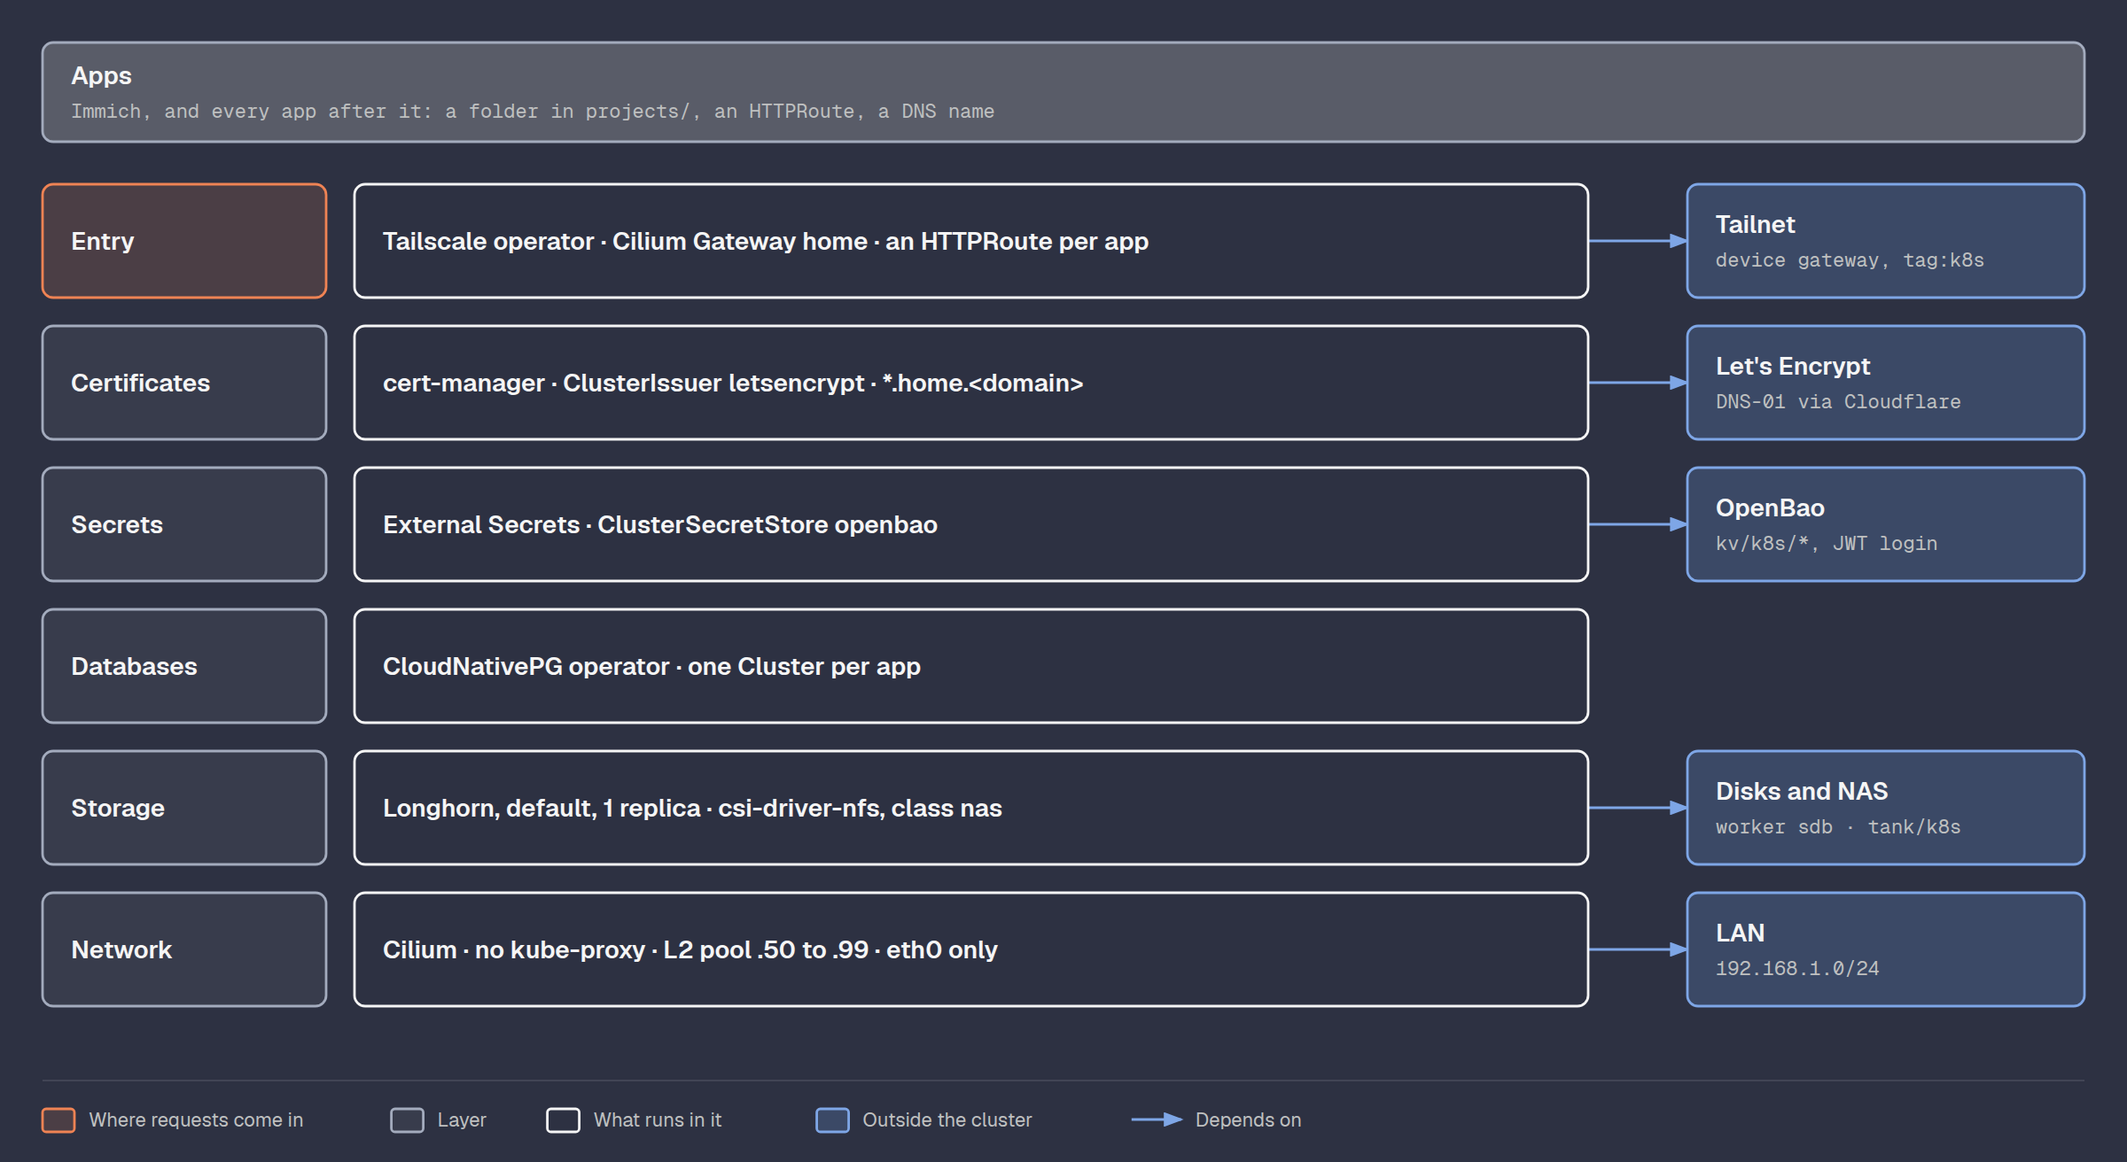
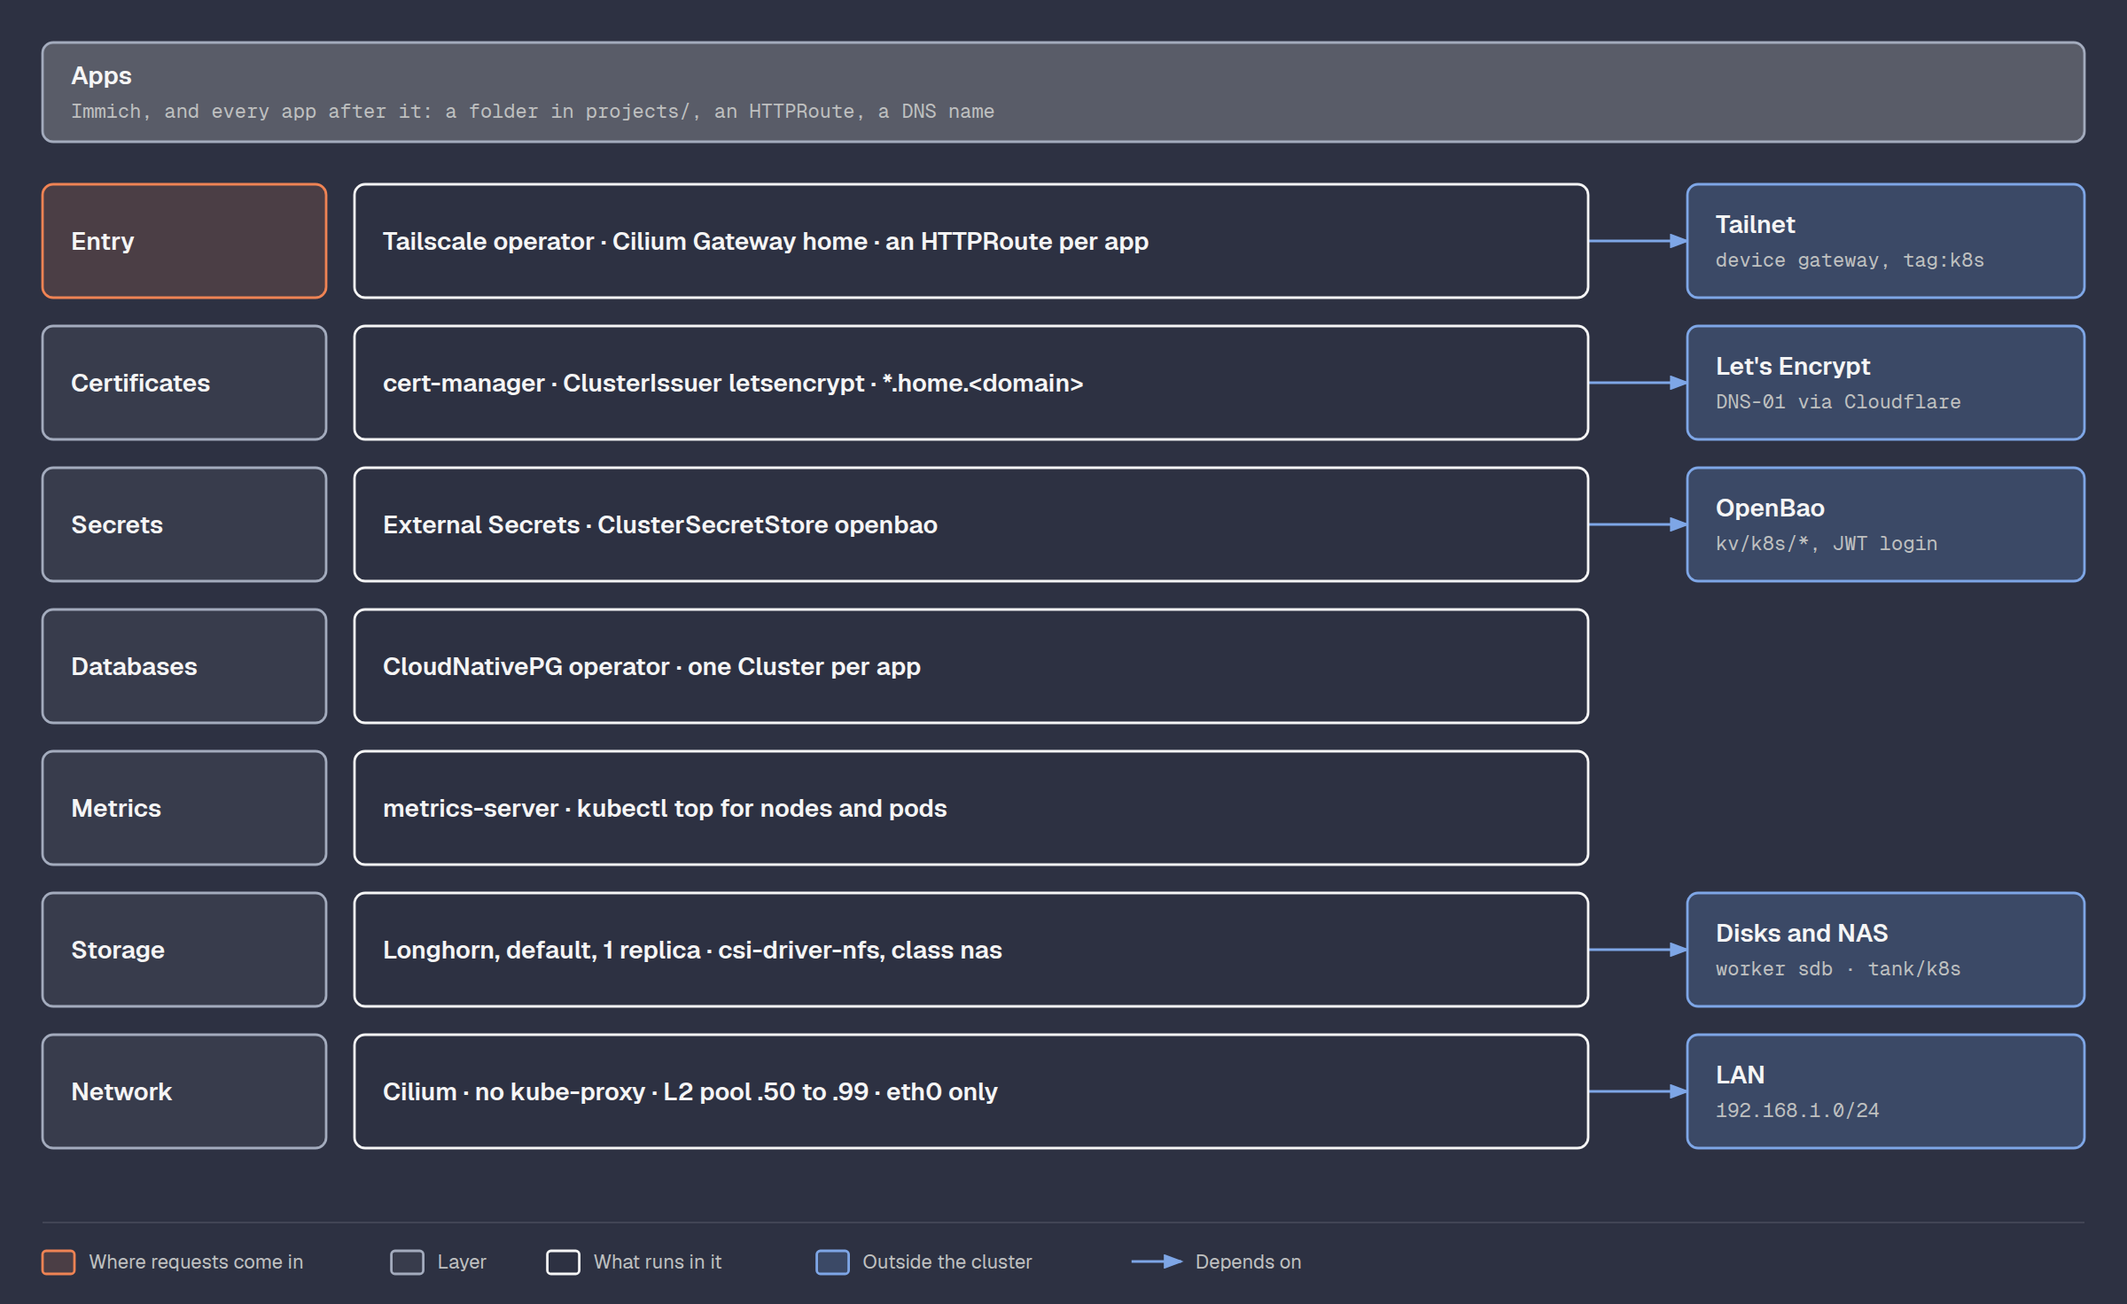
docs: nas quotas, immich resources, metrics-server

diff --git a/diagrams/platform.html b/diagrams/platform.html
@@ -15,16 +15,16 @@
 </head>
 <body>
   <div class="frame">
-    <svg viewBox="0 0 1200 656" xmlns="http://www.w3.org/2000/svg" role="img" aria-labelledby="platform-title platform-desc">
+    <svg viewBox="0 0 1200 736" xmlns="http://www.w3.org/2000/svg" role="img" aria-labelledby="platform-title platform-desc">
       <title id="platform-title">Platform</title>
-      <desc id="platform-desc">The cluster platform in layers: the entry point from the tailnet, certificates from Let&#x27;s Encrypt, secrets from OpenBao, databases with CloudNativePG, storage on Longhorn and the NAS, and Cilium as the network, each layer with the outside system it depends on.</desc>
+      <desc id="platform-desc">The cluster platform in layers: the entry point from the tailnet, certificates from Let&#x27;s Encrypt, secrets from OpenBao, databases with CloudNativePG, metrics-server for kubectl top, storage on Longhorn and the NAS, and Cilium as the network, each layer with the outside system it depends on.</desc>
       <defs><marker id="platform-a" markerWidth="8" markerHeight="6" refX="7" refY="3" orient="auto-start-reverse"><polygon points="0 0, 8 3, 0 6" fill="#bfc0c0"/></marker><marker id="platform-a-link" markerWidth="8" markerHeight="6" refX="7" refY="3" orient="auto-start-reverse"><polygon points="0 0, 8 3, 0 6" fill="#7ea6e6"/></marker><marker id="platform-a-tail" markerWidth="8" markerHeight="6" refX="7" refY="3" orient="auto-start-reverse"><polygon points="0 0, 8 3, 0 6" fill="#6fd3c1"/></marker><marker id="platform-a-accent" markerWidth="8" markerHeight="6" refX="7" refY="3" orient="auto-start-reverse"><polygon points="0 0, 8 3, 0 6" fill="#ef8354"/></marker></defs>
       <rect width="100%" height="100%" fill="#2d3142"/>
       <path d="M 896,136 L 952,136" fill="none" stroke="#7ea6e6" stroke-width="1.4" marker-end="url(#platform-a-link)"/>
       <path d="M 896,216 L 952,216" fill="none" stroke="#7ea6e6" stroke-width="1.4" marker-end="url(#platform-a-link)"/>
       <path d="M 896,296 L 952,296" fill="none" stroke="#7ea6e6" stroke-width="1.4" marker-end="url(#platform-a-link)"/>
-      <path d="M 896,456 L 952,456" fill="none" stroke="#7ea6e6" stroke-width="1.4" marker-end="url(#platform-a-link)"/>
       <path d="M 896,536 L 952,536" fill="none" stroke="#7ea6e6" stroke-width="1.4" marker-end="url(#platform-a-link)"/>
+      <path d="M 896,616 L 952,616" fill="none" stroke="#7ea6e6" stroke-width="1.4" marker-end="url(#platform-a-link)"/>
       <rect x="24" y="24" width="1152" height="56" rx="6" fill="#2d3142"/>
       <rect x="24" y="24" width="1152" height="56" rx="6" fill="rgba(191,192,192,0.30)" stroke="#a3abbd" stroke-width="1.4"/>
       <text x="40" y="47.5" fill="#f5f5f5" font-size="14" font-weight="600" font-family="'Geist', sans-serif">Apps</text>
@@ -67,35 +67,41 @@
       <text x="216" y="381.0" fill="#f5f5f5" font-size="14" font-weight="600" font-family="'Geist', sans-serif">CloudNativePG operator · one Cluster per app</text>
       <rect x="24" y="424" width="160" height="64" rx="6" fill="#2d3142"/>
       <rect x="24" y="424" width="160" height="64" rx="6" fill="rgba(245,245,245,0.06)" stroke="#a3abbd" stroke-width="1.4"/>
-      <text x="40" y="461.0" fill="#f5f5f5" font-size="14" font-weight="600" font-family="'Geist', sans-serif">Storage</text>
+      <text x="40" y="461.0" fill="#f5f5f5" font-size="14" font-weight="600" font-family="'Geist', sans-serif">Metrics</text>
       <rect x="200" y="424" width="696" height="64" rx="6" fill="#2d3142"/>
       <rect x="200" y="424" width="696" height="64" rx="6" fill="#2d3142" stroke="#f5f5f5" stroke-width="1.4"/>
-      <text x="216" y="461.0" fill="#f5f5f5" font-size="14" font-weight="600" font-family="'Geist', sans-serif">Longhorn, default, 1 replica · csi-driver-nfs, class nas</text>
-      <rect x="952" y="424" width="224" height="64" rx="6" fill="#2d3142"/>
-      <rect x="952" y="424" width="224" height="64" rx="6" fill="rgba(106,149,216,0.24)" stroke="#7ea6e6" stroke-width="1.4"/>
-      <text x="968" y="451.5" fill="#f5f5f5" font-size="14" font-weight="600" font-family="'Geist', sans-serif">Disks and NAS</text>
-      <text x="968" y="470.5" fill="#bfc0c0" font-size="11" font-family="'Geist Mono', monospace">worker sdb · tank/k8s</text>
+      <text x="216" y="461.0" fill="#f5f5f5" font-size="14" font-weight="600" font-family="'Geist', sans-serif">metrics-server · kubectl top for nodes and pods</text>
       <rect x="24" y="504" width="160" height="64" rx="6" fill="#2d3142"/>
       <rect x="24" y="504" width="160" height="64" rx="6" fill="rgba(245,245,245,0.06)" stroke="#a3abbd" stroke-width="1.4"/>
-      <text x="40" y="541.0" fill="#f5f5f5" font-size="14" font-weight="600" font-family="'Geist', sans-serif">Network</text>
+      <text x="40" y="541.0" fill="#f5f5f5" font-size="14" font-weight="600" font-family="'Geist', sans-serif">Storage</text>
       <rect x="200" y="504" width="696" height="64" rx="6" fill="#2d3142"/>
       <rect x="200" y="504" width="696" height="64" rx="6" fill="#2d3142" stroke="#f5f5f5" stroke-width="1.4"/>
-      <text x="216" y="541.0" fill="#f5f5f5" font-size="14" font-weight="600" font-family="'Geist', sans-serif">Cilium · no kube-proxy · L2 pool .50 to .99 · eth0 only</text>
+      <text x="216" y="541.0" fill="#f5f5f5" font-size="14" font-weight="600" font-family="'Geist', sans-serif">Longhorn, default, 1 replica · csi-driver-nfs, class nas</text>
       <rect x="952" y="504" width="224" height="64" rx="6" fill="#2d3142"/>
       <rect x="952" y="504" width="224" height="64" rx="6" fill="rgba(106,149,216,0.24)" stroke="#7ea6e6" stroke-width="1.4"/>
-      <text x="968" y="531.5" fill="#f5f5f5" font-size="14" font-weight="600" font-family="'Geist', sans-serif">LAN</text>
-      <text x="968" y="550.5" fill="#bfc0c0" font-size="11" font-family="'Geist Mono', monospace">192.168.1.0/24</text>
-      <line x1="24" y1="610" x2="1176" y2="610" stroke="rgba(245,245,245,0.14)" stroke-width="0.8"/>
-      <rect x="24" y="626" width="18" height="13" rx="2" fill="rgba(239,131,84,0.16)" stroke="#ef8354" stroke-width="1.4"/>
-      <text x="50" y="636" fill="#bfc0c0" font-size="11" font-family="'Geist', sans-serif">Where requests come in</text>
-      <rect x="220.8" y="626" width="18" height="13" rx="2" fill="rgba(245,245,245,0.06)" stroke="#a3abbd" stroke-width="1.4"/>
-      <text x="246.8" y="636" fill="#bfc0c0" font-size="11" font-family="'Geist', sans-serif">Layer</text>
-      <rect x="308.8" y="626" width="18" height="13" rx="2" fill="#2d3142" stroke="#f5f5f5" stroke-width="1.4"/>
-      <text x="334.8" y="636" fill="#bfc0c0" font-size="11" font-family="'Geist', sans-serif">What runs in it</text>
-      <rect x="460.8" y="626" width="18" height="13" rx="2" fill="rgba(106,149,216,0.24)" stroke="#7ea6e6" stroke-width="1.4"/>
-      <text x="486.8" y="636" fill="#bfc0c0" font-size="11" font-family="'Geist', sans-serif">Outside the cluster</text>
-      <line x1="638.4000000000001" y1="632" x2="666.4000000000001" y2="632" stroke="#7ea6e6" stroke-width="1.4" marker-end="url(#platform-a-link)"/>
-      <text x="674.4000000000001" y="636" fill="#bfc0c0" font-size="11" font-family="'Geist', sans-serif">Depends on</text>
+      <text x="968" y="531.5" fill="#f5f5f5" font-size="14" font-weight="600" font-family="'Geist', sans-serif">Disks and NAS</text>
+      <text x="968" y="550.5" fill="#bfc0c0" font-size="11" font-family="'Geist Mono', monospace">worker sdb · tank/k8s</text>
+      <rect x="24" y="584" width="160" height="64" rx="6" fill="#2d3142"/>
+      <rect x="24" y="584" width="160" height="64" rx="6" fill="rgba(245,245,245,0.06)" stroke="#a3abbd" stroke-width="1.4"/>
+      <text x="40" y="621.0" fill="#f5f5f5" font-size="14" font-weight="600" font-family="'Geist', sans-serif">Network</text>
+      <rect x="200" y="584" width="696" height="64" rx="6" fill="#2d3142"/>
+      <rect x="200" y="584" width="696" height="64" rx="6" fill="#2d3142" stroke="#f5f5f5" stroke-width="1.4"/>
+      <text x="216" y="621.0" fill="#f5f5f5" font-size="14" font-weight="600" font-family="'Geist', sans-serif">Cilium · no kube-proxy · L2 pool .50 to .99 · eth0 only</text>
+      <rect x="952" y="584" width="224" height="64" rx="6" fill="#2d3142"/>
+      <rect x="952" y="584" width="224" height="64" rx="6" fill="rgba(106,149,216,0.24)" stroke="#7ea6e6" stroke-width="1.4"/>
+      <text x="968" y="611.5" fill="#f5f5f5" font-size="14" font-weight="600" font-family="'Geist', sans-serif">LAN</text>
+      <text x="968" y="630.5" fill="#bfc0c0" font-size="11" font-family="'Geist Mono', monospace">192.168.1.0/24</text>
+      <line x1="24" y1="690" x2="1176" y2="690" stroke="rgba(245,245,245,0.14)" stroke-width="0.8"/>
+      <rect x="24" y="706" width="18" height="13" rx="2" fill="rgba(239,131,84,0.16)" stroke="#ef8354" stroke-width="1.4"/>
+      <text x="50" y="716" fill="#bfc0c0" font-size="11" font-family="'Geist', sans-serif">Where requests come in</text>
+      <rect x="220.8" y="706" width="18" height="13" rx="2" fill="rgba(245,245,245,0.06)" stroke="#a3abbd" stroke-width="1.4"/>
+      <text x="246.8" y="716" fill="#bfc0c0" font-size="11" font-family="'Geist', sans-serif">Layer</text>
+      <rect x="308.8" y="706" width="18" height="13" rx="2" fill="#2d3142" stroke="#f5f5f5" stroke-width="1.4"/>
+      <text x="334.8" y="716" fill="#bfc0c0" font-size="11" font-family="'Geist', sans-serif">What runs in it</text>
+      <rect x="460.8" y="706" width="18" height="13" rx="2" fill="rgba(106,149,216,0.24)" stroke="#7ea6e6" stroke-width="1.4"/>
+      <text x="486.8" y="716" fill="#bfc0c0" font-size="11" font-family="'Geist', sans-serif">Outside the cluster</text>
+      <line x1="638.4000000000001" y1="712" x2="666.4000000000001" y2="712" stroke="#7ea6e6" stroke-width="1.4" marker-end="url(#platform-a-link)"/>
+      <text x="674.4000000000001" y="716" fill="#bfc0c0" font-size="11" font-family="'Geist', sans-serif">Depends on</text>
     </svg>
   </div>
 </body>

diff --git a/README.md b/README.md
@@ -189,6 +189,7 @@ written down and the homelab knowingly does something simpler.
 | OpenTofu state | Remote backend with locking and versioning (S3, GCS, Azure Blob) on separate infrastructure | One local state file on my laptop, encrypted with a passphrase. No locking, no history, no copy elsewhere; fine for one person on one laptop, and it can be rebuilt with imports ([details](docs/opentofu.md#how-the-state-got-here)) |
 | Object storage | Several nodes with replication, versioning and object lock, plus a copy off site | One Garage in the services VM on the same host, one copy of each object, no versioning. Survives a cluster rebuild, not the loss of the host or the drive ([details](docs/services.md#limits)) |
 | File storage | A NAS on wired network with mirrored or RAID-Z disks, snapshots sent off site | ZFS on one HDD in an old desktop on WiFi. Checksums catch damage but cannot repair it, and nothing is copied off it yet ([details](docs/nas.md#limits)) |
+| Metrics | Kubelet serving certificates signed by the cluster (`rotate-server-certificates` plus kubelet-serving-cert-approver), checked by metrics-server | metrics-server with `--kubelet-insecure-tls`: one flag instead of a kubelet change on every node. It only talks to the nodes inside the cluster ([details](docs/platform.md#metrics)) |
 | Tailnet devices in the cluster | The Tailscale operator signs its own proxies, or Tailnet Lock is off | The operator cannot sign under Tailnet Lock yet, so each proxy it creates is signed once by hand with `tailscale lock sign` on `pve` ([details](docs/tailscale.md#tailnet-lock)) |
 | Backups | Proxmox Backup Server on a separate machine, plus a copy off site | A daily backup job for the services VM to `local` now, Proxmox Backup Server as a VM on the same host later. Both protect against mistakes, not against losing the host ([details](docs/proxmox.md#container-backups)) |
 
@@ -225,14 +226,19 @@ phase page.
 
 - [ ] A second disk for a mirror, or a copy of `tank/files` off the host.
 - [ ] Scrub `tank` monthly and alert on errors.
+- [ ] ZFS snapshots of `tank/k8s` (sanoid or a cron job in the `nas`
+      role), so photos deleted by mistake can come back.
+- [ ] A cable for `pve-desktop`, or a powerline adapter. Imports run at
+      about 9 MB/s over WiFi.
 
 ### Cluster follow-ups
 
 - [ ] The `tag:talos` auth key expires after 90 days. Nodes already joined
       keep working; a rebuild needs a new key, signed again on `pve`.
-- [ ] Backups: CloudNativePG to Garage, Longhorn snapshots. The photo
-      library already has a copy on a separate disk of mine; Immich also
-      dumps its own database to the NAS every night.
+- [ ] Backups: CloudNativePG to Garage every day, Longhorn snapshots.
+      Albums, faces and people live only in Postgres, on one Longhorn
+      replica. The photo library already has a copy on a separate disk of
+      mine; Immich also dumps its own database to the NAS every night.
 
 ### Platform
 

diff --git a/docs/immich.md b/docs/immich.md
@@ -14,7 +14,7 @@ extension. Its chart recommends exactly this setup, and
 
 | File | What |
 |------|------|
-| `database.yaml` | A one-instance `Cluster` on Longhorn (5 Gi), Postgres 18, with the VectorChord extension mounted as an image (`vchord-scratch`) and loaded at start. A `Database` resource creates the extensions Immich uses |
+| `database/cluster.yaml` | A one-instance `Cluster` on Longhorn (5 Gi), Postgres 18, with the VectorChord extension mounted as an image (`vchord-scratch`) and loaded at start. A `Database` resource creates the extensions Immich uses |
 | `library.yaml` | The photo library, a claim on the `nas` storage class: the files live on `pve-desktop` in `/tank/k8s/immich/immich-library` |
 | `database/secret.yaml` | An `ExternalSecret` with the database user and password from OpenBao `kv/k8s/immich-database`. CloudNativePG applies it to the `app` role through `managed.roles` and follows changes (`cnpg.io/reload`) |
 | `repository.yaml`, `release.yaml` | The Immich chart from its OCI registry, with Valkey on, the library claim, and the database credentials from that secret. CloudNativePG's own generated `immich-database-app` is not used |
@@ -29,6 +29,31 @@ extension. Its chart recommends exactly this setup, and
 
 The Flux step `immich` waits for `cnpg`, `longhorn` and `nfs-config`
 ([gitops/flux/projects.yaml](../gitops/flux/projects.yaml)).
+
+The library has a real limit of 400G, a ZFS project quota on its folder
+([NAS, Quotas](nas.md#quotas)), and the claim says 400 Gi to match.
+
+## Resources
+
+Every pod has a memory limit and CPU and memory requests. No CPU limits:
+they throttle a pod even when the CPU is idle, and a burst of thumbnails
+or face detection should use the free cores.
+
+| Pod | CPU request | Memory request | Memory limit |
+|-----|-------------|----------------|--------------|
+| server | 250m | 512Mi | 4Gi |
+| machine-learning | 250m | 1Gi | 4Gi |
+| valkey | 50m | 64Mi | 256Mi |
+| database | 100m | 256Mi | 1Gi |
+
+Under load the server sat near 3.8Gi of its 4Gi, but only
+1.3Gi of that was its own memory; the rest was file cache, which the
+kernel frees first. Check what a pod really uses with `kubectl top` or
+`anon` in its cgroup:
+
+```bash
+kubectl -n immich exec deploy/immich-server -- grep -E '^(anon|file) ' /sys/fs/cgroup/memory.stat
+```
 
 ## Deploy
 

diff --git a/docs/nas.md b/docs/nas.md
@@ -79,6 +79,34 @@ ZFS checksums every block, so a dying disk shows up as errors in
 `zpool status` instead of silently bad photos. With one disk it can
 detect damage but not repair it.
 
+## Quotas
+
+The size on a claim of the `nas` class is only a label. The CSI driver
+makes a folder and enforces nothing, so a pod sees the free space of the
+whole pool: Immich showed about 900 GB on a 500 Gi claim.
+
+A real limit comes from a ZFS project quota. A folder and everything
+under it get a project ID, and the quota on `tank/k8s` caps that
+project. `df` inside the folder, and so over NFS, shows the quota, so
+Immich reports the right size. The rest of the pool stays free for other
+things.
+
+| Folder | Project | Quota |
+|--------|---------|-------|
+| `k8s/immich/immich-library` | 1 | 400G |
+
+The list is `nas_quotas` in the role's defaults. The role tags every file
+under the folder (`zfs project -s -r`), not only the folder itself: files
+written before the tag kept project 0 and did not count. It checks with
+`zfs project -c -r`, so a second run changes nothing. The claim is
+400 Gi to match. A claim cannot shrink, so changing it from 500 Gi meant
+deleting and recreating it; with `Retain` and the folder named after the
+claim, the files stayed where they were.
+
+```bash
+zfs projectspace tank/k8s
+```
+
 ## Shares
 
 | Share | For | Address | Login |
@@ -108,7 +136,7 @@ corrupt.
 |-------|--------|
 | One disk | No redundancy. A dead disk loses everything on it |
 | No backup | Nothing is copied off the pool yet. Keep originals elsewhere until a second disk or an off-site copy exists |
-| WiFi | 100 to 400 Mbps depending on signal, and the link can drop. Fine for files and photos, not for databases |
+| WiFi | A 433 Mbit/s link at -42 dBm, but about 9 MB/s from the laptop through the cluster. Fine for files and photos, not for databases |
 | Off when `pve` is off | Apps that mount it must wait for it at boot |
 
 ## Tailnet and firewall

diff --git a/docs/platform.md b/docs/platform.md
@@ -135,6 +135,23 @@ Things found on the way:
 Adding an app: its folder in `projects/`, an `HTTPRoute` with
 `<name>.home.${DOMAIN}`, and its name in `cluster_apps`.
 
+## Metrics
+
+[metrics-server](https://github.com/kubernetes-sigs/metrics-server)
+3.14.0 reads CPU and memory from each kubelet, so `kubectl top` works and
+memory limits can be checked against what pods really use. Without it,
+`kubectl top` fails with `Metrics API not available`.
+
+The kubelet serves a certificate that Talos signs itself, not the
+cluster CA, so metrics-server runs with `--kubelet-insecure-tls`. It only
+talks to the nodes inside the cluster. The proper way is in the README's
+POC trade-offs.
+
+```bash
+kubectl top nodes
+kubectl top pods -n immich
+```
+
 ## References
 
 - [Cilium on Talos](https://www.talos.dev/v1.14/kubernetes-guides/network/deploying-cilium/)

diff --git a/docs/gitops.md b/docs/gitops.md
@@ -56,6 +56,7 @@ gitops/
     cnpg/
     nfs/                NFS CSI driver
       config/           the storage class for the NAS
+    metrics-server/     CPU and memory for kubectl top
   projects/
     immich/
       database/         namespace and Postgres, applied first
